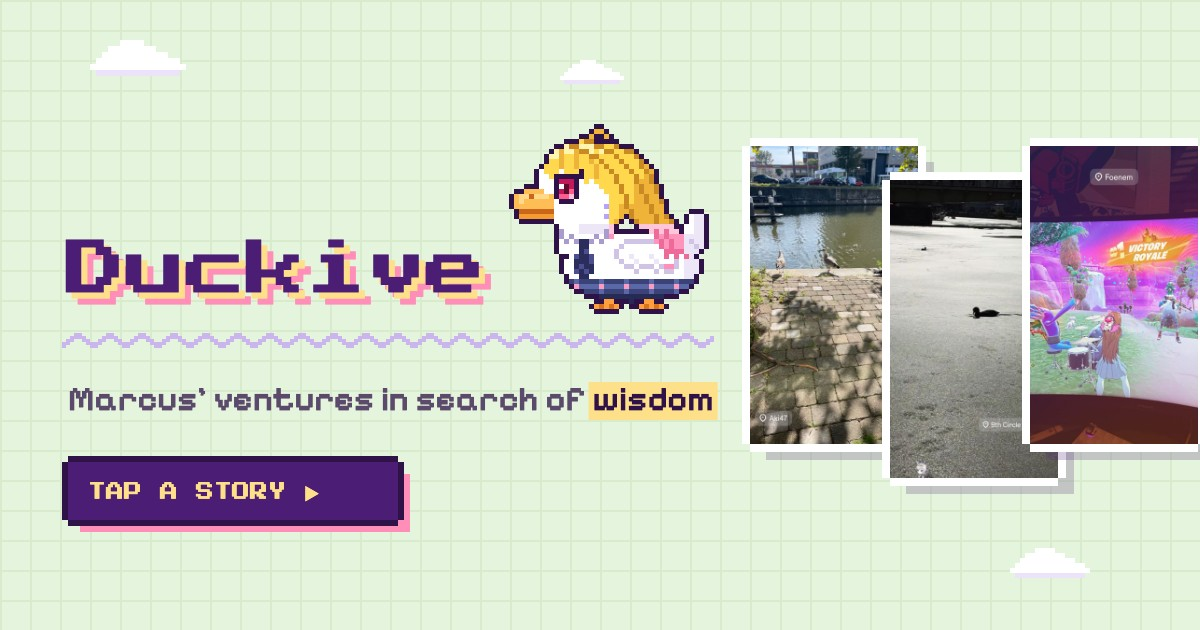
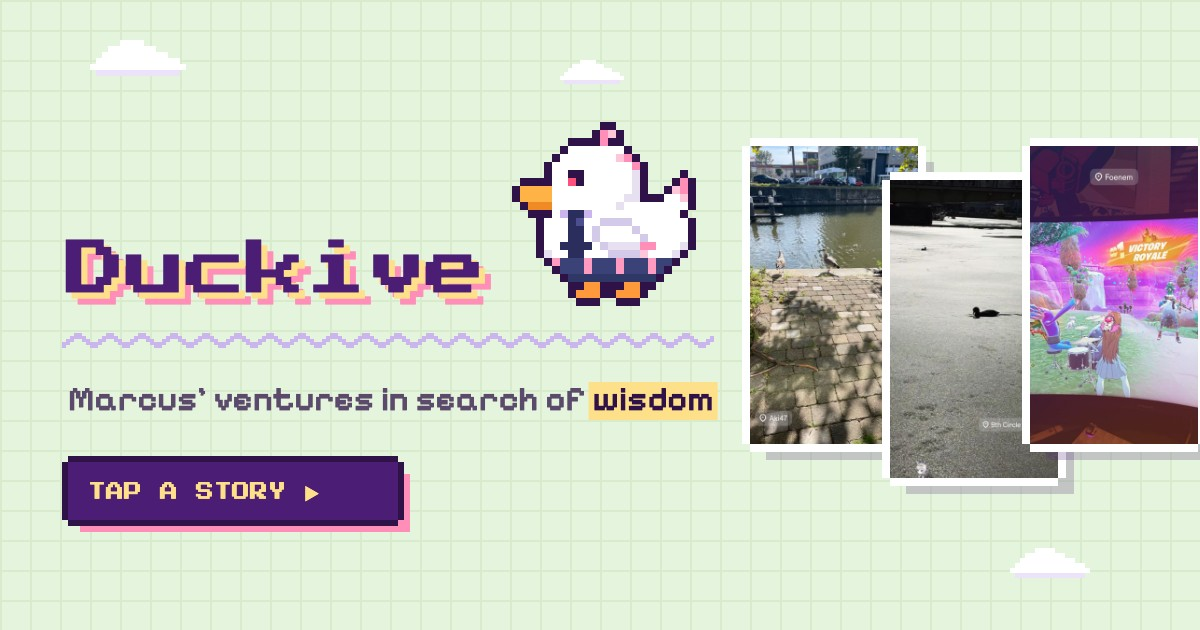
Go back to a 26x24 duck with pink highlights
The 42x38 duck's eye and hair didn't land, so she's low-res again:
no hair, a pink tuft and pink feather tips, a simple pixel eye, the
uniform and plaid skirt, and all the expressions plus new happy and
eat frames. The link preview and home-screen icon use the new duck.

Changed region(s): [[0.4008, 0.181, 0.6167, 0.5127]]

diff --git a/index.html b/index.html
@@ -157,9 +157,9 @@ header, main, footer, .pond { position: relative; z-index: 1; }
 @keyframes duck-drop { 0% { opacity: 0; transform: translateY(-90px); } 60% { opacity: 1; transform: translateY(6px); } 80% { transform: translateY(-4px); } 100% { transform: none; } }
 .duck { display: block; animation: bob .9s steps(1) infinite; }
 @keyframes bob { 0%, 100% { transform: none; } 50% { transform: translateY(-3px); } }
-.duck-face { display: block; width: 84px; height: 76px; }
+.duck-face { display: block; width: 78px; height: 72px; }
 .duck-face.face-right .sprite { transform: scaleX(-1); }
-@media (min-width: 620px) { .duck-face { width: 126px; height: 114px; } }
+@media (min-width: 620px) { .duck-face { width: 104px; height: 96px; } }
 .duck-slot.away::after {
   content: "BRB...";
   position: absolute; left: 50%; bottom: 26px;
@@ -438,8 +438,8 @@ footer a { color: var(--plum); font-weight: 700; }
 .pond-water::after { top: -12px; filter: brightness(.93); animation-duration: 3.4s; animation-direction: reverse; }
 @keyframes wave-x2 { to { background-position: 48px 0; } }
 .pond-duck { position: absolute; left: 0; bottom: 30px; display: flex; align-items: flex-end; gap: 6px; animation: paddle 36s linear -15s infinite; }
-.pond-duck .mama { display: block; width: 63px; height: 57px; animation: bob .8s steps(1) infinite; }
-.pond-duck .baby { display: block; width: 32px; height: 24px; animation: bob .8s steps(1) infinite -.4s; }
+.pond-duck .mama { display: block; width: 52px; height: 48px; animation: bob .8s steps(1) infinite; }
+.pond-duck .baby { display: block; width: 24px; height: 18px; animation: bob .8s steps(1) infinite -.4s; }
 @keyframes paddle { from { transform: translateX(calc(100vw + 20px)); } to { transform: translateX(-140px); } }
 
 /* Story player */
@@ -628,7 +628,7 @@ footer a { color: var(--plum); font-weight: 700; }
   <div class="grid" id="grid" role="tabpanel" aria-labelledby="tab-ducks"></div>
 </main>
 
-<footer class="wrap" id="footer" data-updated="2026-10-18T11:22:55+00:00"></footer>
+<footer class="wrap" id="footer" data-updated="2026-10-18T11:48:44+00:00"></footer>
 <div class="pond" aria-hidden="true">
   <div class="pond-water"></div>
   <div class="pond-duck"><span class="mama" id="pond-mama"></span><span class="baby" id="pond-baby"></span></div>
@@ -686,110 +686,62 @@ footer a { color: var(--plum); font-weight: 700; }
   const SECTIONS = { ducks: "Ducks", gaming: "Game wins" };
 
   /* ---------- pixel sprites ---------- */
+  // Drawn by tools/paint_duck.py: a 26x24 white duck in Marin's school uniform (faces left) with pink
+  // feather highlights, a simple eye, a collar and navy tie, and a plaid skirt. Frames are pixel overrides.
   const PAL = {
-    O: "#2e1248",
-    W: "#ffffff",
-    w: "#ece6f6",
-    x: "#cfc4e6",
-    A: "#ffd98a",
-    B: "#ffbe55",
-    b: "#f59a2c",
-    n: "#c9661b",
-    F: "#ff9f3d",
-    f: "#d9741c",
-    H: "#ffd84d",
-    h: "#fff4b0",
-    y: "#f0b33a",
-    Y: "#c98a24",
-    p: "#ffc6da",
-    P: "#ff94bd",
-    Q: "#ee6a99",
-    E: "#2e1248",
-    R: "#c2185b",
-    r: "#ff5c8d",
-    D: "#5b0d2e",
-    L: "#ffffff",
-    K: "#ff9fc4",
-    k: "#ffc3da",
-    T: "#2b2d5c",
-    t: "#4b4f8f",
-    c: "#a99bcf",
-    S: "#3a4278",
-    s: "#5a68a8",
-    v: "#ff9ac1",
-    q: "#262b55",
-    G: "#b9a2ff",
-    g: "#ffffff",
-    N: "#ff8fb8",
-    X: "#e2553f",
-    Z: "#ffe27a",
-    z: "#f2c14e",
+    O: "#2e1248", V: "#ffffff", v: "#e6e0f0", W: "#ffffff", w: "#e6e0f0", x: "#d3c9e8", B: "#ffb347",
+    b: "#f08a24", D: "#7a1f3d", F: "#ff9a3c", E: "#2e1248", R: "#ff4f7b", K: "#ff9fc4", X: "#e2553f",
+    U: "#ff8fb8", u: "#ffc6da", P: "#ff8fb8", p: "#ffc6da", c: "#cbb5ee", T: "#2b2d5c", t: "#4b4f8f",
+    S: "#3a4278", s: "#ff9ac1", q: "#2f3766", Y: "#ffe08a",
   };
-  // A white duck dressed like Marin: blonde hair with pink tips and an ahoge, big red-pink eyes, an earring,
-  // shirt collar with a loose navy tie, pink "nails" on the wing tip, plaid skirt. Faces left. Frames are pixel overrides.
   const DUCK = [
-    "..................OO......................",
-    ".................OyyO.....................",
-    "...............OOyOOyO....................",
-    "............OOOHYYOOOOO...................",
-    "..........OOhYYhhhYYHHYOOO................",
-    ".........OhyhhyYYhHhYYHHYYO...............",
-    "........OhhyHHyHHYYHHHYHHHYO..............",
-    "........OHHyHHyHHyHYHHHYHHHYO.............",
-    ".......OHHHyHHyHHHyHYHHHYHHYyO............",
-    "......OWHHHWHHHEHHyHHYHHHYHHYyO...........",
-    "......OWWHEEEEEEHHyHHHYHHHYHyYO...........",
-    "......OWWWERRREWHWHHHHYHHHYyyYO...........",
-    "....OOOWWWELDREWWWWHHHHYHHyYyyYO..........",
-    "..OOBBBBWWERDrEWWWWWHHHYHHyYyyYO..........",
-    ".OBAAnAAABErrkEWWWWWWHHHYHyyYyyO..........",
-    ".OBABBBBBBWEEEWWWWWWWHHHYHyyYyyYO.........",
-    ".OBBBBBBBBWWWWWWWWWWGHHyYyyyyYyyO.........",
-    "..OnnnnnnnWWWWWWWWWWgHHyyYyyyYyyO....OOO..",
-    "..ObbbbbbbWWWWWWWWWWGHHyOYyyyyYyYO..OWwwO.",
-    "...OOOOOOOWWWWWWWWWWWHyO.OYyyyYyyYO.OWwwO.",
-    "..........OWWWWwwwwwwpO...OpppppppOOWWwwO.",
-    "..........OcWWWwwwwwcpOOOOOOOpQpQppOWWwwO.",
-    "..........OcWcWWWWcWcPWWWWWWWWQPQPPPwwwwO.",
-    "..........OWcWcTTcWcWWWWxxxxxxPQPQPPwxwwO.",
-    "..........OWWWWTTWWWWWWxWWWWWWWQPQPPwwxwO.",
-    "..........OWWWWTtWWWWWxWWWWWWWWWQQQQwwwO..",
-    "...........OOWtTTtWWWWxWWwWWWwWWQWQWQwO...",
-    "...........OWWTTTtWWWWWxWWwWWWwWWWxWwwwO..",
-    "...........OWWTtTTWWWWWWxxWxxxWxNNxWwwwO..",
-    "...........OWWtTtTWWWWWWWWxWWWxWxxWWwwwO..",
-    "............OWWTTWWWWWWWWWWWWWWWWWWWwwO...",
-    "............OSsSSSSsSSSSsSSSSsSSSSsSSSO...",
-    ".............OvssssvssssvssssvssssvssO....",
-    "..............OOSSSsSSSSsSSSSsSSSSsOO.....",
-    "................OOOqqqqqqqqqqqqqOOO.......",
-    "..................OOFFOOOqOOFFOO..........",
-    ".................OFfFfFO.OOFfFfFO.........",
-    "..................OOOOO....OOOOO..........",
+    "............OO............",
+    "...........OUuO...........",
+    "........OOOOUOO...........",
+    ".......OVVVVVVVO..........",
+    "......OVVVVVVVpPO.........",
+    ".....OVVVVVVVVVVPO........",
+    ".....OVVEEVVVVVVvO....O...",
+    "..OOOOVVREVVVVVVvO...OPO..",
+    ".OBBBBVVVVVVVVVVvO..OpPO..",
+    ".OBBBBVVVVVVVVVvvOOOWWpO..",
+    "..ObbbVVVVVVVVvWWWWWWWWO..",
+    "...OOOWcTTcWWWWWWWWWWWO...",
+    "....OWWWTtWWxxxxWWWWWWWO..",
+    "....OWWWTTWxWWWWxWWWWWWO..",
+    "....OWWWTTWxWWWWWxWWWWWO..",
+    "....OWWTTTTWxwwwwPPWWWwO..",
+    "....OwWWTTWWWxxxxpWWWwO...",
+    ".....OsSSSsSSSsSSSsSSO....",
+    "......OSSSsSSSsSSSsSO.....",
+    ".......OqqqqqqqqqqqO......",
+    "........OOFFOOOFFOO.......",
+    "........OFFFOOFFFO........",
+    ".........OOO..OOO.........",
+    "..........................",
   ];
   const CHICK = [
-    ".....OOO........",
-    "....OkKkO.......",
-    "...OkKKKkO......",
-    "...OZZZZZO......",
-    "..OZZZZZZZO.....",
-    ".OZZEZZZZZOOOO..",
-    "OBBZZZZZZZZZZZO.",
-    ".ObZZZZZzZZZZZZO",
-    "..OZZZZzzzZZZZO.",
-    "...OZZZZZZZZZO..",
-    "....OFOOFOOOO...",
-    ".....O..O.......",
+    "....PpP.....",
+    "...OOOO.....",
+    "..OYYYYO....",
+    ".OYYEYYYO...",
+    "OBBYYYYYO...",
+    ".OOYYYYYYOOO",
+    "..OYYYYYYYYO",
+    "..OYYYYYYYO.",
+    "...OOOOOOO..",
   ];
   const FRAMES = {
     normal: {},
-    blink: {"10,10":"W","11,10":"W","12,10":"W","13,10":"W","14,10":"W","15,9":"W","15,10":"W","10,11":"W","11,11":"W","12,11":"W","13,11":"W","14,11":"W","10,12":"E","11,12":"W","12,12":"W","13,12":"W","14,12":"E","10,13":"W","11,13":"E","12,13":"E","13,13":"E","14,13":"W","10,14":"W","11,14":"W","12,14":"W","13,14":"W","14,14":"W","11,15":"W","12,15":"W","13,15":"W","15,11":"E"},
-    hmph: {"10,10":"W","11,10":"W","12,10":"W","13,10":"W","14,10":"W","15,9":"W","15,10":"W","10,11":"W","11,11":"W","12,11":"W","13,11":"W","14,11":"W","10,12":"W","11,12":"E","12,12":"E","13,12":"E","14,12":"W","10,13":"E","11,13":"W","12,13":"W","13,13":"W","14,13":"E","10,14":"W","11,14":"W","12,14":"W","13,14":"W","14,14":"W","11,15":"W","12,15":"W","13,15":"W","15,11":"E","9,16":"k","10,16":"K","11,16":"K","12,16":"K","13,16":"k"},
-    peek: {"9,16":"k","10,16":"K","11,16":"K","12,16":"K","13,16":"k","11,12":"R","12,12":"L","13,12":"D","12,13":"r","13,13":"D"},
-    annoyed: {"11,11":"E","12,11":"E","13,11":"E"},
-    angry: {"11,11":"E","12,11":"E","13,11":"E","11,12":"r","12,12":"D","13,12":"r","11,13":"R","13,13":"R","26,2":"X","28,2":"X","25,3":"X","26,3":"X","28,3":"X","29,3":"X","25,5":"X","26,5":"X","28,5":"X","29,5":"X","26,6":"X","28,6":"X"},
-    walk1: {"15,35":"O","16,35":"F","17,35":"f","18,35":"F","19,35":"f","21,35":"q","28,35":"q","30,35":"F","16,36":"O","18,36":"O","19,36":"O","20,36":"O","21,36":"O","22,36":".","23,36":".","18,37":".","19,37":".","20,37":".","21,37":".","22,37":"."},
-    walk2: {"28,35":"q","30,35":"f","31,35":"F","32,35":"f","33,35":"F","34,35":"O","26,36":".","27,36":".","28,36":"O","29,36":"O","30,36":"O","31,36":"O","33,36":"O","27,37":".","28,37":".","29,37":".","30,37":".","31,37":"."},
+    blink: {"8,6":"V","9,6":"V","8,7":"E"},
+    annoyed: {"10,6":"E"},
+    angry: {"10,5":"E","11,5":"E","10,6":"E","8,7":"X","17,1":"X","19,1":"X","18,2":"X","17,3":"X","19,3":"X"},
+    hmph: {"8,6":"V","9,6":"V","8,7":"E","10,7":"E","10,8":"K","11,8":"K"},
+    peek: {"8,6":"V","10,6":"E","8,7":"V","9,7":"R","10,7":"E","10,8":"K","11,8":"K"},
+    happy: {"8,6":"V","8,7":"E","9,7":"V","10,7":"E","10,8":"K","11,8":"K"},
+    eat: {"2,9":"D","3,9":"D","4,9":"D","2,11":"O","3,11":"b","4,11":"b","5,11":"b","3,12":"O"},
+    walk1: {"9,20":"F","11,20":"O","15,20":"O","17,20":"F","7,21":"O","8,21":"F","11,21":"O","12,21":".","13,21":".","14,21":"O","17,21":"F","18,21":"O","8,22":"O","11,22":".","14,22":".","17,22":"O"},
+    walk2: {"10,20":"O","12,20":"F","14,20":"F","16,20":"O","8,21":".","9,21":"O","12,21":"F","13,21":"F","16,21":"O","17,21":".","9,22":".","12,22":"O","13,22":"O","16,22":"."},
   };
   function sprite(art, frame) {
     const ov = Object.assign({}, ...[].concat(frame || []).map((f) => FRAMES[f] || {}));

diff --git a/lab/index.html b/lab/index.html
@@ -158,9 +158,9 @@ header, main, footer, .pond { position: relative; z-index: 1; }
 @keyframes duck-drop { 0% { opacity: 0; transform: translateY(-90px); } 60% { opacity: 1; transform: translateY(6px); } 80% { transform: translateY(-4px); } 100% { transform: none; } }
 .duck { display: block; animation: bob .9s steps(1) infinite; }
 @keyframes bob { 0%, 100% { transform: none; } 50% { transform: translateY(-3px); } }
-.duck-face { display: block; width: 84px; height: 76px; }
+.duck-face { display: block; width: 78px; height: 72px; }
 .duck-face.face-right .sprite { transform: scaleX(-1); }
-@media (min-width: 620px) { .duck-face { width: 126px; height: 114px; } }
+@media (min-width: 620px) { .duck-face { width: 104px; height: 96px; } }
 .duck-slot.away::after {
   content: "BRB...";
   position: absolute; left: 50%; bottom: 26px;
@@ -439,8 +439,8 @@ footer a { color: var(--plum); font-weight: 700; }
 .pond-water::after { top: -12px; filter: brightness(.93); animation-duration: 3.4s; animation-direction: reverse; }
 @keyframes wave-x2 { to { background-position: 48px 0; } }
 .pond-duck { position: absolute; left: 0; bottom: 30px; display: flex; align-items: flex-end; gap: 6px; animation: paddle 36s linear -15s infinite; }
-.pond-duck .mama { display: block; width: 63px; height: 57px; animation: bob .8s steps(1) infinite; }
-.pond-duck .baby { display: block; width: 32px; height: 24px; animation: bob .8s steps(1) infinite -.4s; }
+.pond-duck .mama { display: block; width: 52px; height: 48px; animation: bob .8s steps(1) infinite; }
+.pond-duck .baby { display: block; width: 24px; height: 18px; animation: bob .8s steps(1) infinite -.4s; }
 @keyframes paddle { from { transform: translateX(calc(100vw + 20px)); } to { transform: translateX(-140px); } }
 
 /* Story player */
@@ -635,7 +635,7 @@ footer a { color: var(--plum); font-weight: 700; }
   <div class="grid" id="grid" role="tabpanel" aria-labelledby="tab-ducks"></div>
 </main>
 
-<footer class="wrap" id="footer" data-updated="2026-10-18T11:22:55+00:00"></footer>
+<footer class="wrap" id="footer" data-updated="2026-10-18T11:50:16+00:00"></footer>
 <div class="pond" aria-hidden="true">
   <div class="pond-water"></div>
   <div class="pond-duck"><span class="mama" id="pond-mama"></span><span class="baby" id="pond-baby"></span></div>
@@ -693,110 +693,62 @@ footer a { color: var(--plum); font-weight: 700; }
   const SECTIONS = { ducks: "Ducks", gaming: "Game wins" };
 
   /* ---------- pixel sprites ---------- */
+  // Drawn by tools/paint_duck.py: a 26x24 white duck in Marin's school uniform (faces left) with pink
+  // feather highlights, a simple eye, a collar and navy tie, and a plaid skirt. Frames are pixel overrides.
   const PAL = {
-    O: "#2e1248",
-    W: "#ffffff",
-    w: "#ece6f6",
-    x: "#cfc4e6",
-    A: "#ffd98a",
-    B: "#ffbe55",
-    b: "#f59a2c",
-    n: "#c9661b",
-    F: "#ff9f3d",
-    f: "#d9741c",
-    H: "#ffd84d",
-    h: "#fff4b0",
-    y: "#f0b33a",
-    Y: "#c98a24",
-    p: "#ffc6da",
-    P: "#ff94bd",
-    Q: "#ee6a99",
-    E: "#2e1248",
-    R: "#c2185b",
-    r: "#ff5c8d",
-    D: "#5b0d2e",
-    L: "#ffffff",
-    K: "#ff9fc4",
-    k: "#ffc3da",
-    T: "#2b2d5c",
-    t: "#4b4f8f",
-    c: "#a99bcf",
-    S: "#3a4278",
-    s: "#5a68a8",
-    v: "#ff9ac1",
-    q: "#262b55",
-    G: "#b9a2ff",
-    g: "#ffffff",
-    N: "#ff8fb8",
-    X: "#e2553f",
-    Z: "#ffe27a",
-    z: "#f2c14e",
+    O: "#2e1248", V: "#ffffff", v: "#e6e0f0", W: "#ffffff", w: "#e6e0f0", x: "#d3c9e8", B: "#ffb347",
+    b: "#f08a24", D: "#7a1f3d", F: "#ff9a3c", E: "#2e1248", R: "#ff4f7b", K: "#ff9fc4", X: "#e2553f",
+    U: "#ff8fb8", u: "#ffc6da", P: "#ff8fb8", p: "#ffc6da", c: "#cbb5ee", T: "#2b2d5c", t: "#4b4f8f",
+    S: "#3a4278", s: "#ff9ac1", q: "#2f3766", Y: "#ffe08a",
   };
-  // A white duck dressed like Marin: blonde hair with pink tips and an ahoge, big red-pink eyes, an earring,
-  // shirt collar with a loose navy tie, pink "nails" on the wing tip, plaid skirt. Faces left. Frames are pixel overrides.
   const DUCK = [
-    "..................OO......................",
-    ".................OyyO.....................",
-    "...............OOyOOyO....................",
-    "............OOOHYYOOOOO...................",
-    "..........OOhYYhhhYYHHYOOO................",
-    ".........OhyhhyYYhHhYYHHYYO...............",
-    "........OhhyHHyHHYYHHHYHHHYO..............",
-    "........OHHyHHyHHyHYHHHYHHHYO.............",
-    ".......OHHHyHHyHHHyHYHHHYHHYyO............",
-    "......OWHHHWHHHEHHyHHYHHHYHHYyO...........",
-    "......OWWHEEEEEEHHyHHHYHHHYHyYO...........",
-    "......OWWWERRREWHWHHHHYHHHYyyYO...........",
-    "....OOOWWWELDREWWWWHHHHYHHyYyyYO..........",
-    "..OOBBBBWWERDrEWWWWWHHHYHHyYyyYO..........",
-    ".OBAAnAAABErrkEWWWWWWHHHYHyyYyyO..........",
-    ".OBABBBBBBWEEEWWWWWWWHHHYHyyYyyYO.........",
-    ".OBBBBBBBBWWWWWWWWWWGHHyYyyyyYyyO.........",
-    "..OnnnnnnnWWWWWWWWWWgHHyyYyyyYyyO....OOO..",
-    "..ObbbbbbbWWWWWWWWWWGHHyOYyyyyYyYO..OWwwO.",
-    "...OOOOOOOWWWWWWWWWWWHyO.OYyyyYyyYO.OWwwO.",
-    "..........OWWWWwwwwwwpO...OpppppppOOWWwwO.",
-    "..........OcWWWwwwwwcpOOOOOOOpQpQppOWWwwO.",
-    "..........OcWcWWWWcWcPWWWWWWWWQPQPPPwwwwO.",
-    "..........OWcWcTTcWcWWWWxxxxxxPQPQPPwxwwO.",
-    "..........OWWWWTTWWWWWWxWWWWWWWQPQPPwwxwO.",
-    "..........OWWWWTtWWWWWxWWWWWWWWWQQQQwwwO..",
-    "...........OOWtTTtWWWWxWWwWWWwWWQWQWQwO...",
-    "...........OWWTTTtWWWWWxWWwWWWwWWWxWwwwO..",
-    "...........OWWTtTTWWWWWWxxWxxxWxNNxWwwwO..",
-    "...........OWWtTtTWWWWWWWWxWWWxWxxWWwwwO..",
-    "............OWWTTWWWWWWWWWWWWWWWWWWWwwO...",
-    "............OSsSSSSsSSSSsSSSSsSSSSsSSSO...",
-    ".............OvssssvssssvssssvssssvssO....",
-    "..............OOSSSsSSSSsSSSSsSSSSsOO.....",
-    "................OOOqqqqqqqqqqqqqOOO.......",
-    "..................OOFFOOOqOOFFOO..........",
-    ".................OFfFfFO.OOFfFfFO.........",
-    "..................OOOOO....OOOOO..........",
+    "............OO............",
+    "...........OUuO...........",
+    "........OOOOUOO...........",
+    ".......OVVVVVVVO..........",
+    "......OVVVVVVVpPO.........",
+    ".....OVVVVVVVVVVPO........",
+    ".....OVVEEVVVVVVvO....O...",
+    "..OOOOVVREVVVVVVvO...OPO..",
+    ".OBBBBVVVVVVVVVVvO..OpPO..",
+    ".OBBBBVVVVVVVVVvvOOOWWpO..",
+    "..ObbbVVVVVVVVvWWWWWWWWO..",
+    "...OOOWcTTcWWWWWWWWWWWO...",
+    "....OWWWTtWWxxxxWWWWWWWO..",
+    "....OWWWTTWxWWWWxWWWWWWO..",
+    "....OWWWTTWxWWWWWxWWWWWO..",
+    "....OWWTTTTWxwwwwPPWWWwO..",
+    "....OwWWTTWWWxxxxpWWWwO...",
+    ".....OsSSSsSSSsSSSsSSO....",
+    "......OSSSsSSSsSSSsSO.....",
+    ".......OqqqqqqqqqqqO......",
+    "........OOFFOOOFFOO.......",
+    "........OFFFOOFFFO........",
+    ".........OOO..OOO.........",
+    "..........................",
   ];
   const CHICK = [
-    ".....OOO........",
-    "....OkKkO.......",
-    "...OkKKKkO......",
-    "...OZZZZZO......",
-    "..OZZZZZZZO.....",
-    ".OZZEZZZZZOOOO..",
-    "OBBZZZZZZZZZZZO.",
-    ".ObZZZZZzZZZZZZO",
-    "..OZZZZzzzZZZZO.",
-    "...OZZZZZZZZZO..",
-    "....OFOOFOOOO...",
-    ".....O..O.......",
+    "....PpP.....",
+    "...OOOO.....",
+    "..OYYYYO....",
+    ".OYYEYYYO...",
+    "OBBYYYYYO...",
+    ".OOYYYYYYOOO",
+    "..OYYYYYYYYO",
+    "..OYYYYYYYO.",
+    "...OOOOOOO..",
   ];
   const FRAMES = {
     normal: {},
-    blink: {"10,10":"W","11,10":"W","12,10":"W","13,10":"W","14,10":"W","15,9":"W","15,10":"W","10,11":"W","11,11":"W","12,11":"W","13,11":"W","14,11":"W","10,12":"E","11,12":"W","12,12":"W","13,12":"W","14,12":"E","10,13":"W","11,13":"E","12,13":"E","13,13":"E","14,13":"W","10,14":"W","11,14":"W","12,14":"W","13,14":"W","14,14":"W","11,15":"W","12,15":"W","13,15":"W","15,11":"E"},
-    hmph: {"10,10":"W","11,10":"W","12,10":"W","13,10":"W","14,10":"W","15,9":"W","15,10":"W","10,11":"W","11,11":"W","12,11":"W","13,11":"W","14,11":"W","10,12":"W","11,12":"E","12,12":"E","13,12":"E","14,12":"W","10,13":"E","11,13":"W","12,13":"W","13,13":"W","14,13":"E","10,14":"W","11,14":"W","12,14":"W","13,14":"W","14,14":"W","11,15":"W","12,15":"W","13,15":"W","15,11":"E","9,16":"k","10,16":"K","11,16":"K","12,16":"K","13,16":"k"},
-    peek: {"9,16":"k","10,16":"K","11,16":"K","12,16":"K","13,16":"k","11,12":"R","12,12":"L","13,12":"D","12,13":"r","13,13":"D"},
-    annoyed: {"11,11":"E","12,11":"E","13,11":"E"},
-    angry: {"11,11":"E","12,11":"E","13,11":"E","11,12":"r","12,12":"D","13,12":"r","11,13":"R","13,13":"R","26,2":"X","28,2":"X","25,3":"X","26,3":"X","28,3":"X","29,3":"X","25,5":"X","26,5":"X","28,5":"X","29,5":"X","26,6":"X","28,6":"X"},
-    walk1: {"15,35":"O","16,35":"F","17,35":"f","18,35":"F","19,35":"f","21,35":"q","28,35":"q","30,35":"F","16,36":"O","18,36":"O","19,36":"O","20,36":"O","21,36":"O","22,36":".","23,36":".","18,37":".","19,37":".","20,37":".","21,37":".","22,37":"."},
-    walk2: {"28,35":"q","30,35":"f","31,35":"F","32,35":"f","33,35":"F","34,35":"O","26,36":".","27,36":".","28,36":"O","29,36":"O","30,36":"O","31,36":"O","33,36":"O","27,37":".","28,37":".","29,37":".","30,37":".","31,37":"."},
+    blink: {"8,6":"V","9,6":"V","8,7":"E"},
+    annoyed: {"10,6":"E"},
+    angry: {"10,5":"E","11,5":"E","10,6":"E","8,7":"X","17,1":"X","19,1":"X","18,2":"X","17,3":"X","19,3":"X"},
+    hmph: {"8,6":"V","9,6":"V","8,7":"E","10,7":"E","10,8":"K","11,8":"K"},
+    peek: {"8,6":"V","10,6":"E","8,7":"V","9,7":"R","10,7":"E","10,8":"K","11,8":"K"},
+    happy: {"8,6":"V","8,7":"E","9,7":"V","10,7":"E","10,8":"K","11,8":"K"},
+    eat: {"2,9":"D","3,9":"D","4,9":"D","2,11":"O","3,11":"b","4,11":"b","5,11":"b","3,12":"O"},
+    walk1: {"9,20":"F","11,20":"O","15,20":"O","17,20":"F","7,21":"O","8,21":"F","11,21":"O","12,21":".","13,21":".","14,21":"O","17,21":"F","18,21":"O","8,22":"O","11,22":".","14,22":".","17,22":"O"},
+    walk2: {"10,20":"O","12,20":"F","14,20":"F","16,20":"O","8,21":".","9,21":"O","12,21":"F","13,21":"F","16,21":"O","17,21":".","9,22":".","12,22":"O","13,22":"O","16,22":"."},
   };
   function sprite(art, frame) {
     const ov = Object.assign({}, ...[].concat(frame || []).map((f) => FRAMES[f] || {}));
